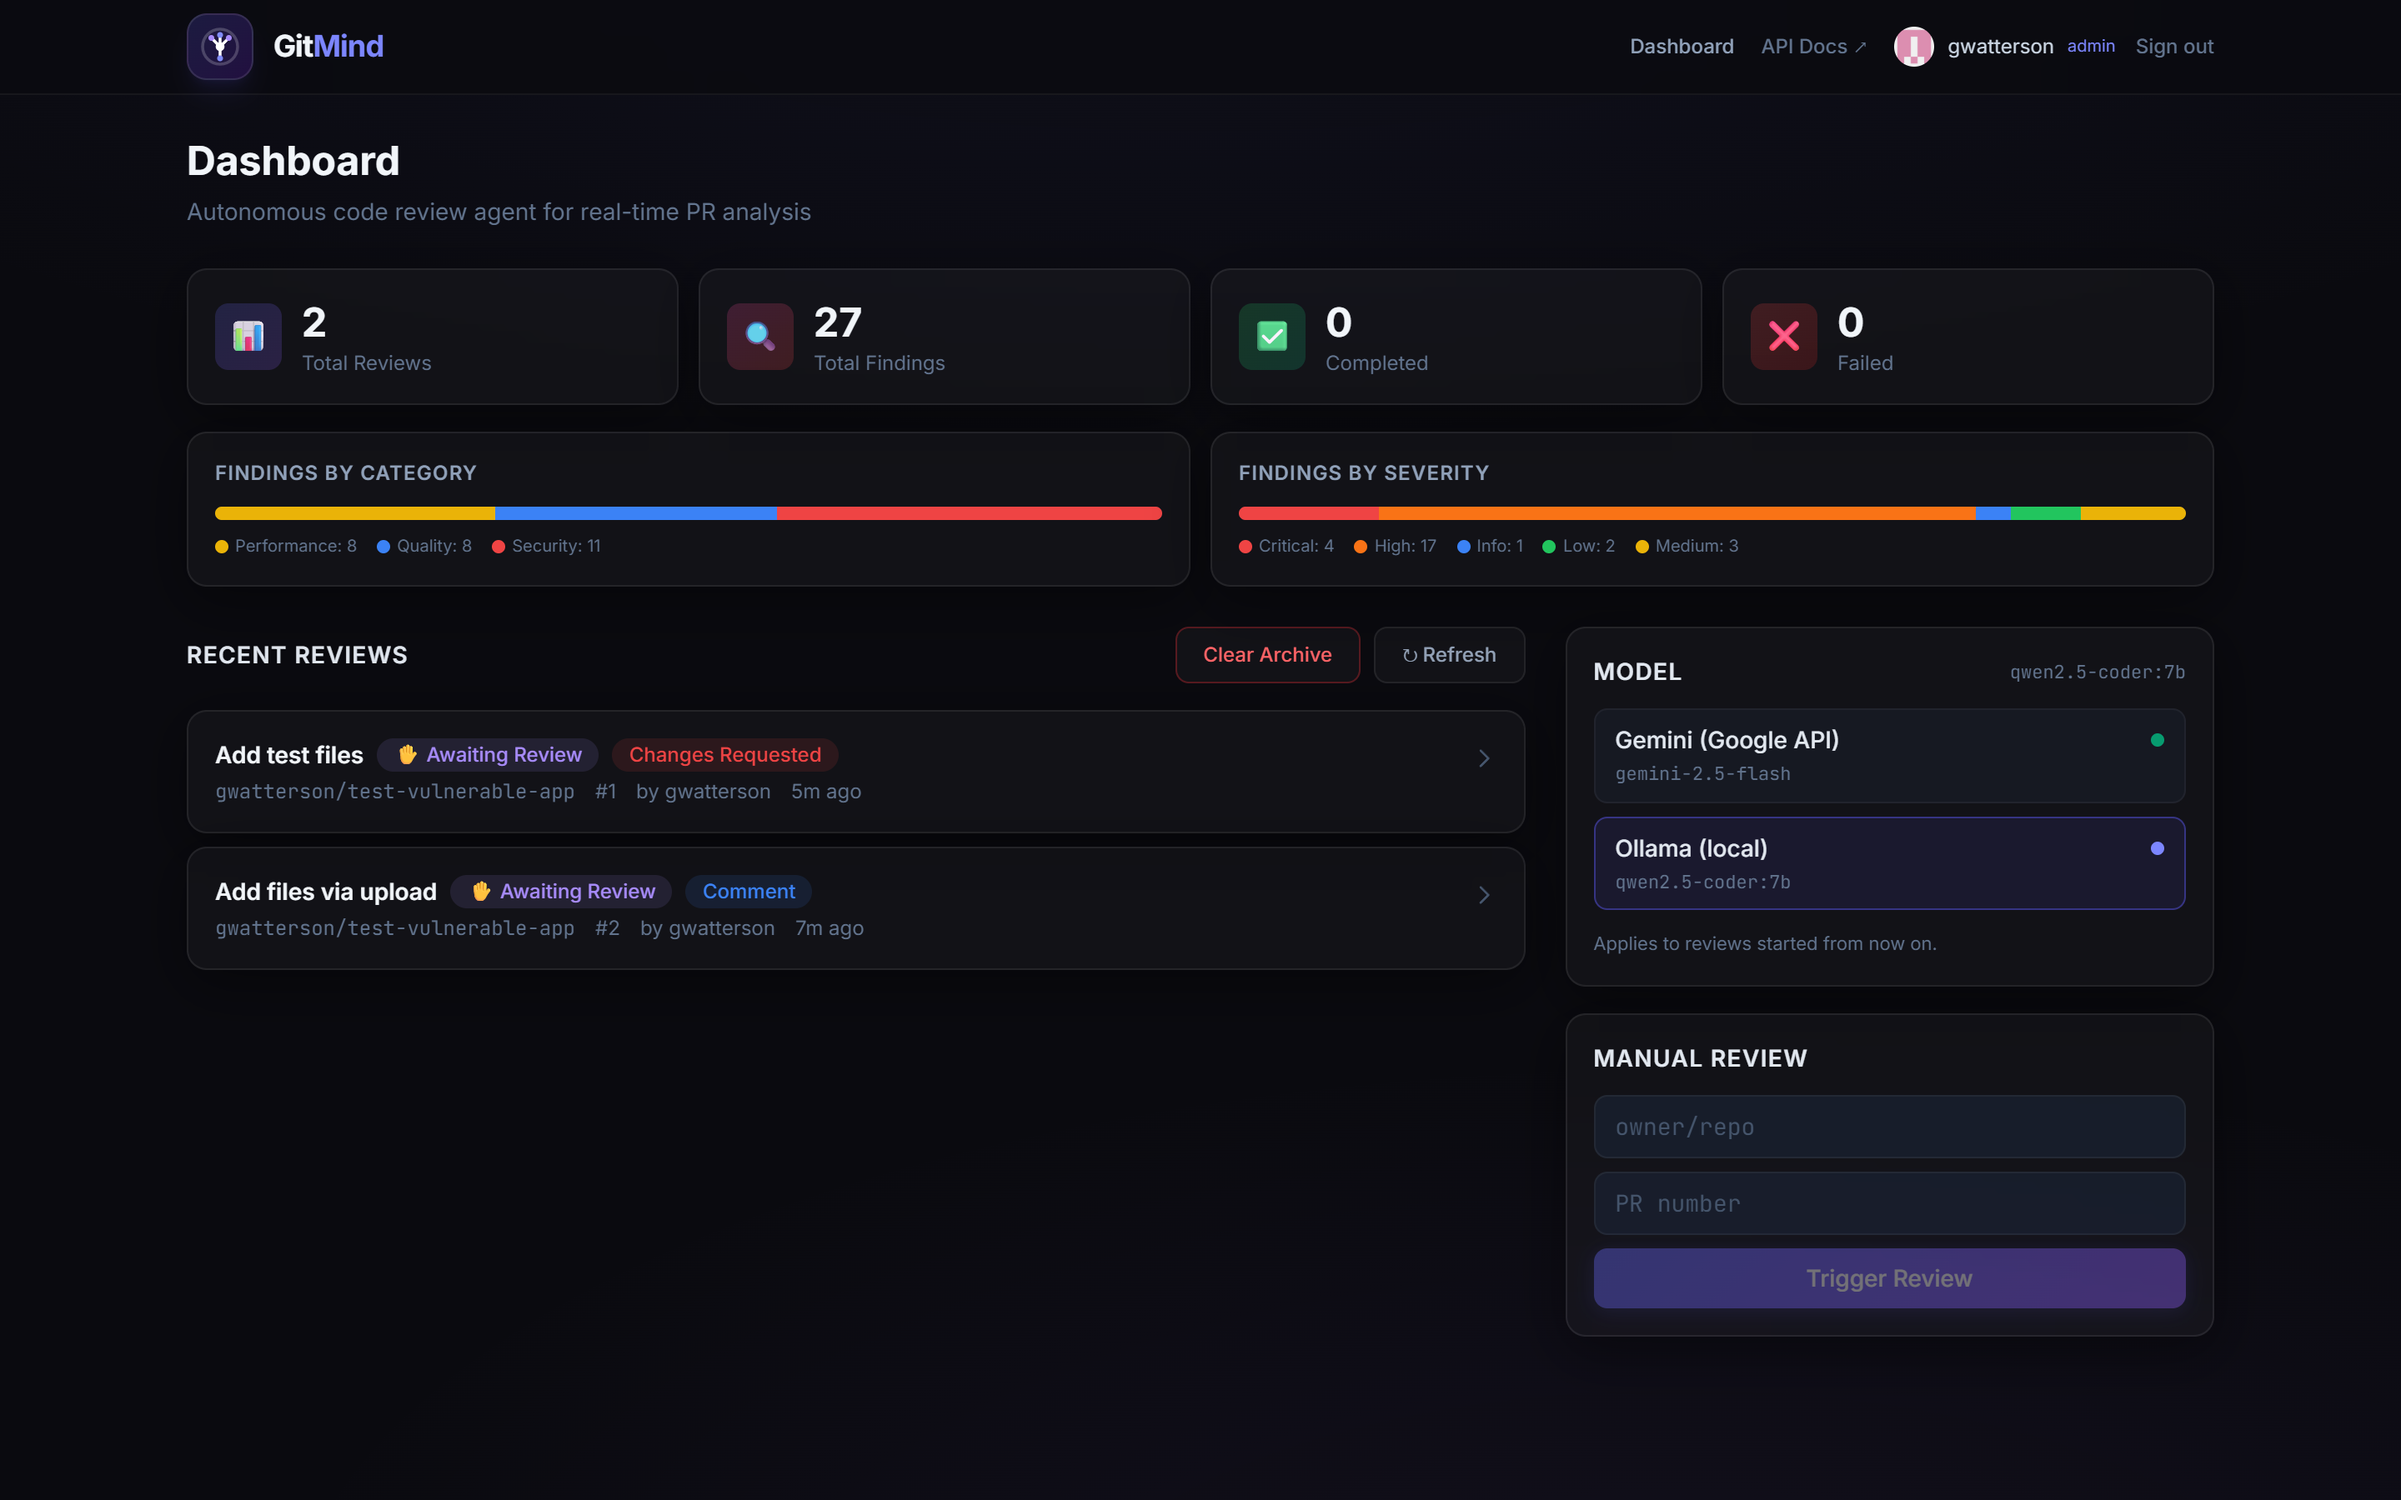
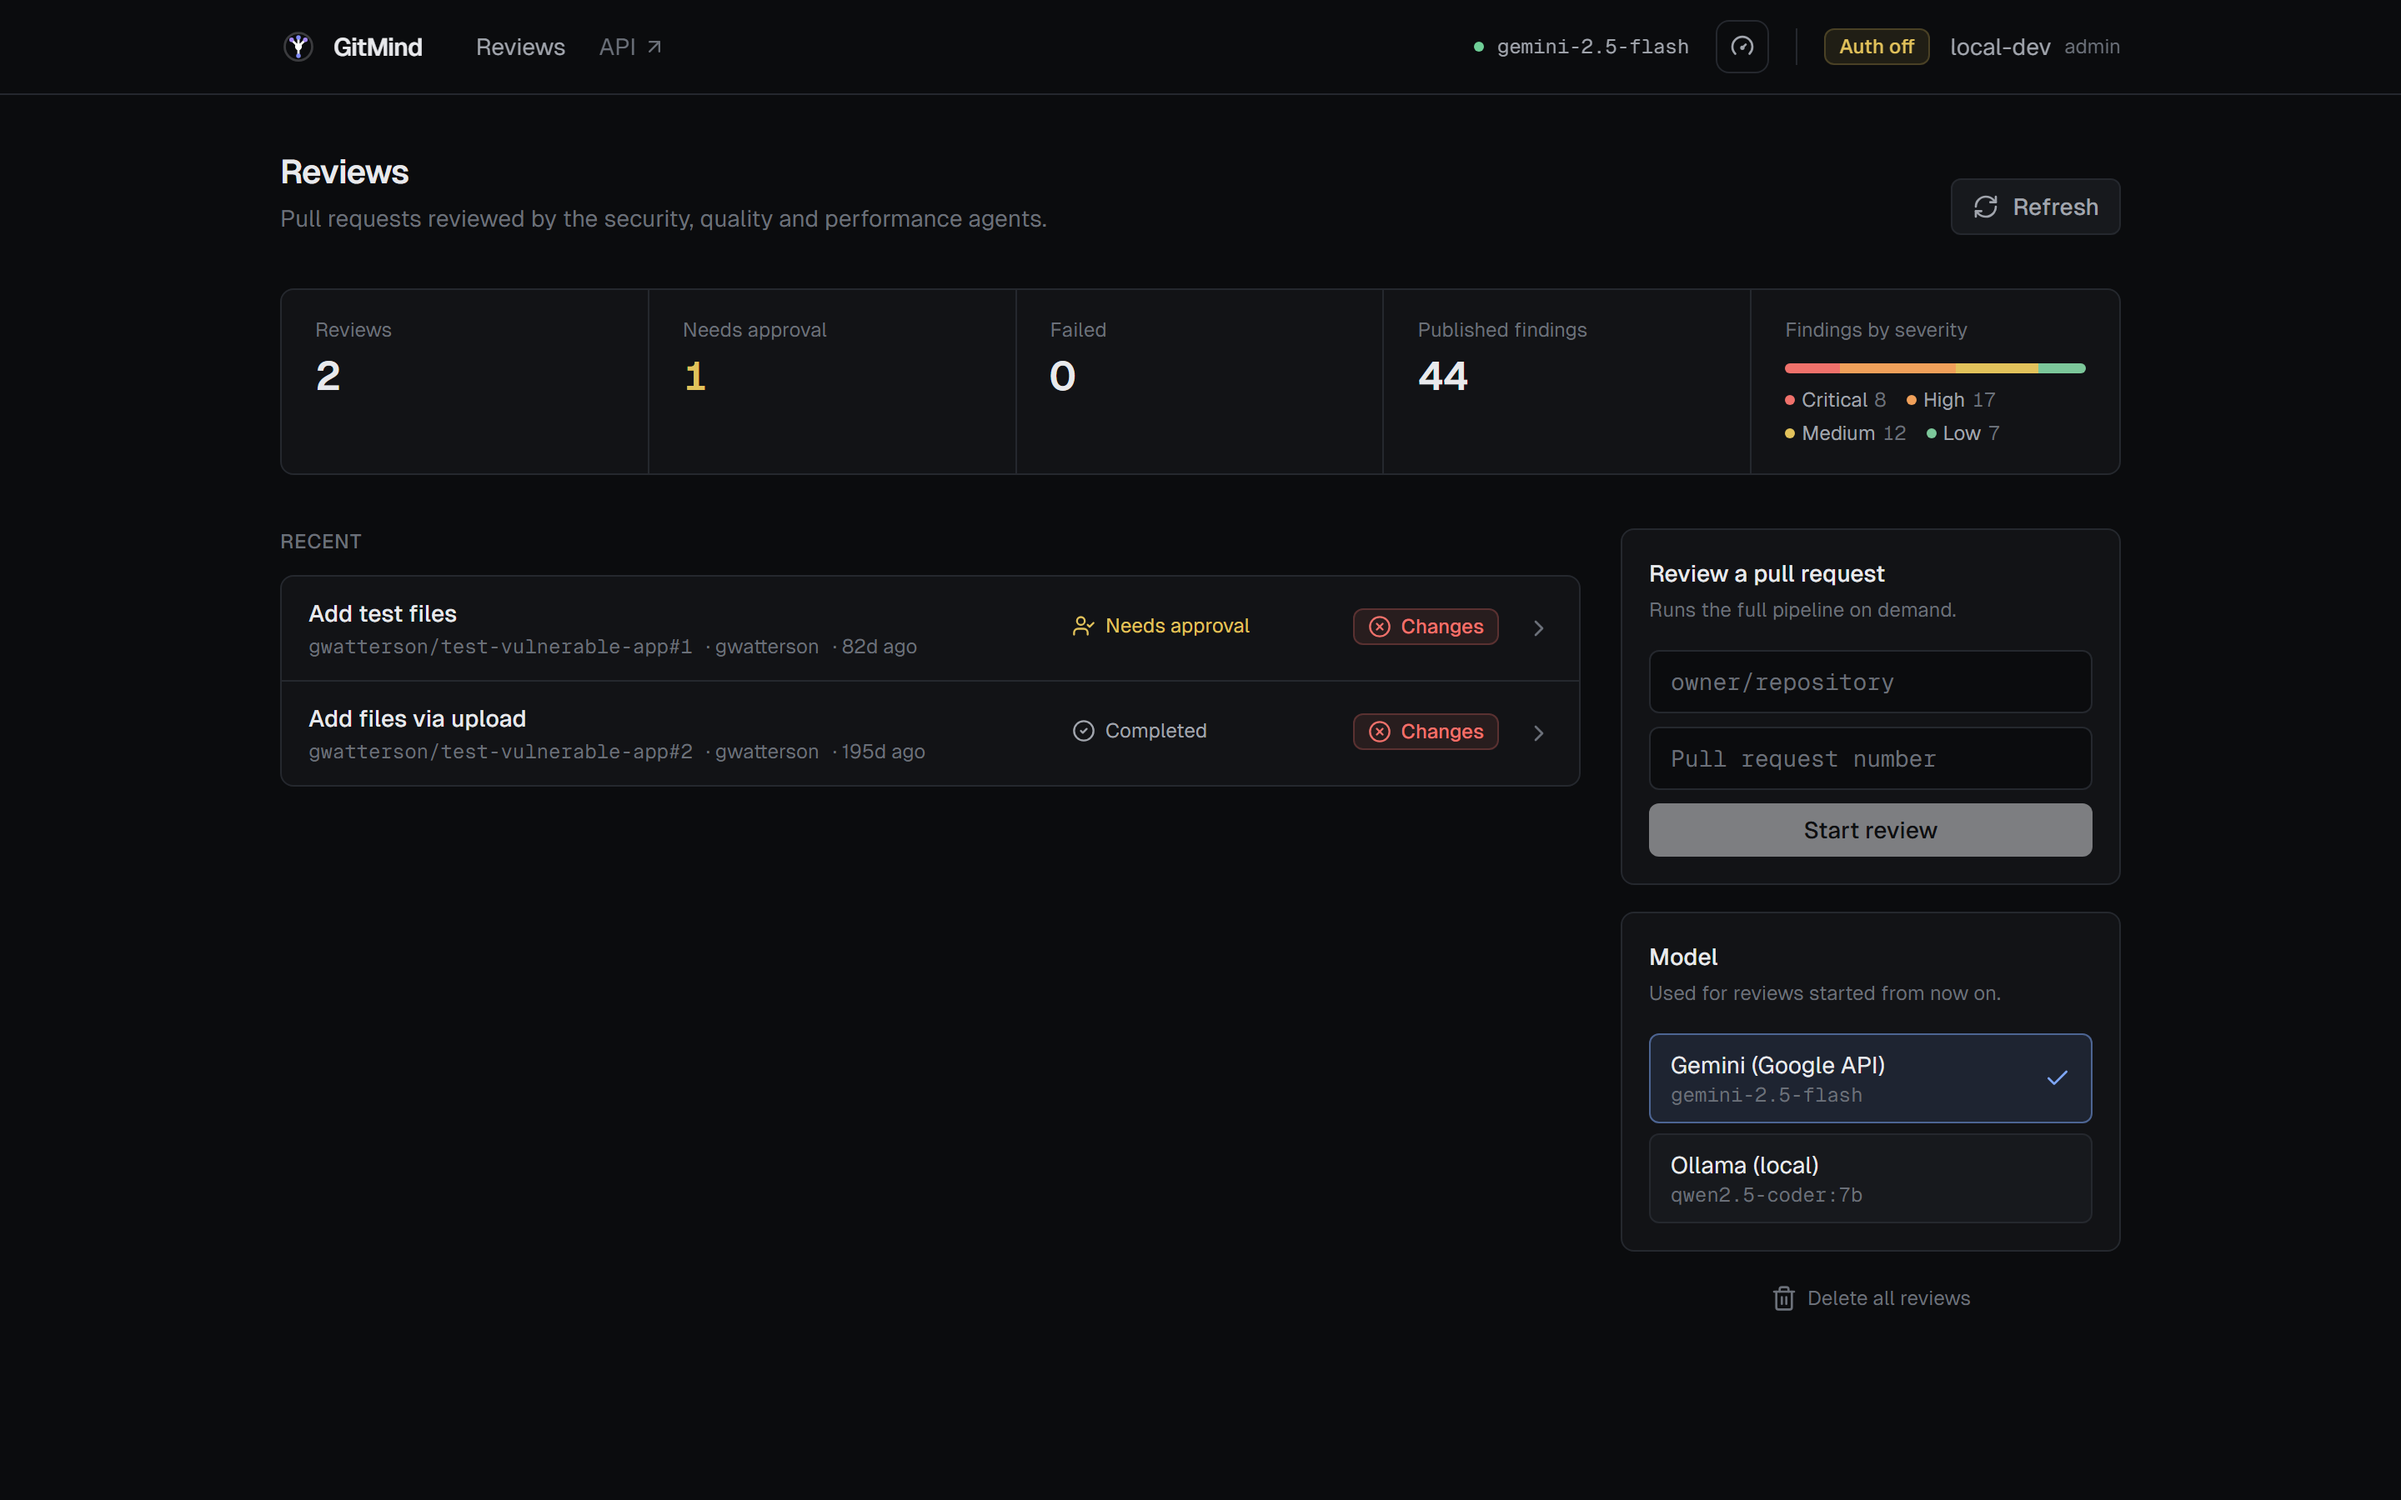
docs(F5): README screenshots of the redesigned dashboard
New dashboard, review and summary screenshots (sample repository only).
The diff screenshot is left out until it can be regenerated with a valid
GitHub token. Also: ?tab=diff and ?tab=summary open a review tab
directly, the dev tools badge is hidden and deleting every review is a
quiet text action instead of a red button.

diff --git a/frontend/src/app/reviews/[id]/page.tsx b/frontend/src/app/reviews/[id]/page.tsx
@@ -2,7 +2,7 @@
 
 import { useEffect, useState } from "react";
 import Link from "next/link";
-import { useParams, useRouter } from "next/navigation";
+import { useParams, useRouter, useSearchParams } from "next/navigation";
 import { ArrowLeft, Pencil, SearchX, Send, Trash2 } from "lucide-react";
 import { DiffViewer } from "@/components/DiffViewer";
 import { FindingCard } from "@/components/FindingCard";
@@ -112,7 +112,12 @@ export default function ReviewDetailPage() {
   const [review, setReview] = useState<Review | null>(null);
   const [findings, setFindings] = useState<Finding[]>([]);
   const [loading, setLoading] = useState(true);
-  const [tab, setTab] = useState<Tab>("findings");
+  const searchParams = useSearchParams();
+  // ?tab=diff or ?tab=summary opens that tab directly (shareable links)
+  const [tab, setTab] = useState<Tab>(() => {
+    const requested = searchParams.get("tab");
+    return requested === "diff" || requested === "summary" ? requested : "findings";
+  });
   const [category, setCategory] = useState("all");
   const [severity, setSeverity] = useState("all");
   const [diffFiles, setDiffFiles] = useState<DiffFile[] | null>(null);

diff --git a/frontend/src/app/page.tsx b/frontend/src/app/page.tsx
@@ -143,7 +143,10 @@ export default function DashboardPage() {
           <ManualReview onQueued={fetchReviews} />
           <ModelSelector />
           {user?.is_admin ? (
-            <button onClick={handleClearArchive} className="btn-danger w-full">
+            <button
+              onClick={handleClearArchive}
+              className="inline-flex w-full items-center justify-center gap-1.5 py-1 text-xs text-fg-subtle transition-colors hover:text-danger"
+            >
               <Trash2 className="h-4 w-4" aria-hidden />
               Delete all reviews
             </button>

diff --git a/README.md b/README.md
@@ -42,25 +42,19 @@ Gemini API or entirely on your machine with a local model served by Ollama.
 ## See it in action
 
 <p align="center">
-  <img src="docs/screenshots/dashboard.png" alt="Dashboard with review list, metrics and model selection" width="100%" />
+  <img src="docs/screenshots/dashboard.png" alt="Reviews dashboard with metrics, the review list and model selection" width="100%" />
 </p>
 
 <table>
   <tr>
-    <td width="50%"><img src="docs/screenshots/review.png" alt="Review detail with the live reasoning trace and findings" /></td>
-    <td width="50%"><img src="docs/screenshots/diff.png" alt="Diff viewer with findings on the changed lines" /></td>
+    <td width="50%"><img src="docs/screenshots/review.png" alt="Review page with the verdict, findings and the pipeline timeline" /></td>
+    <td width="50%"><img src="docs/screenshots/summary.png" alt="Review summary written by the synthesis node" /></td>
   </tr>
   <tr>
-    <td align="center"><sub>Live reasoning trace and findings with severity, confidence and quoted code</sub></td>
-    <td align="center"><sub>Findings annotated on the changed lines of the diff</sub></td>
+    <td align="center"><sub>Verdict first, then findings with severity, location and suggested fix, and the pipeline as it runs</sub></td>
+    <td align="center"><sub>Summary written by the synthesis node; the verdict itself is computed in code</sub></td>
   </tr>
 </table>
-
-<p align="center">
-  <img src="docs/screenshots/summary.png" alt="Review summary written by the synthesis node" width="80%" />
-  <br />
-  <sub>Summary written by the synthesis node, with the verdict computed in code</sub>
-</p>
 
 <sub>Screenshots of a real review of a sample pull request, generated locally with <code>qwen2.5-coder:7b</code> through Ollama.</sub>
 
